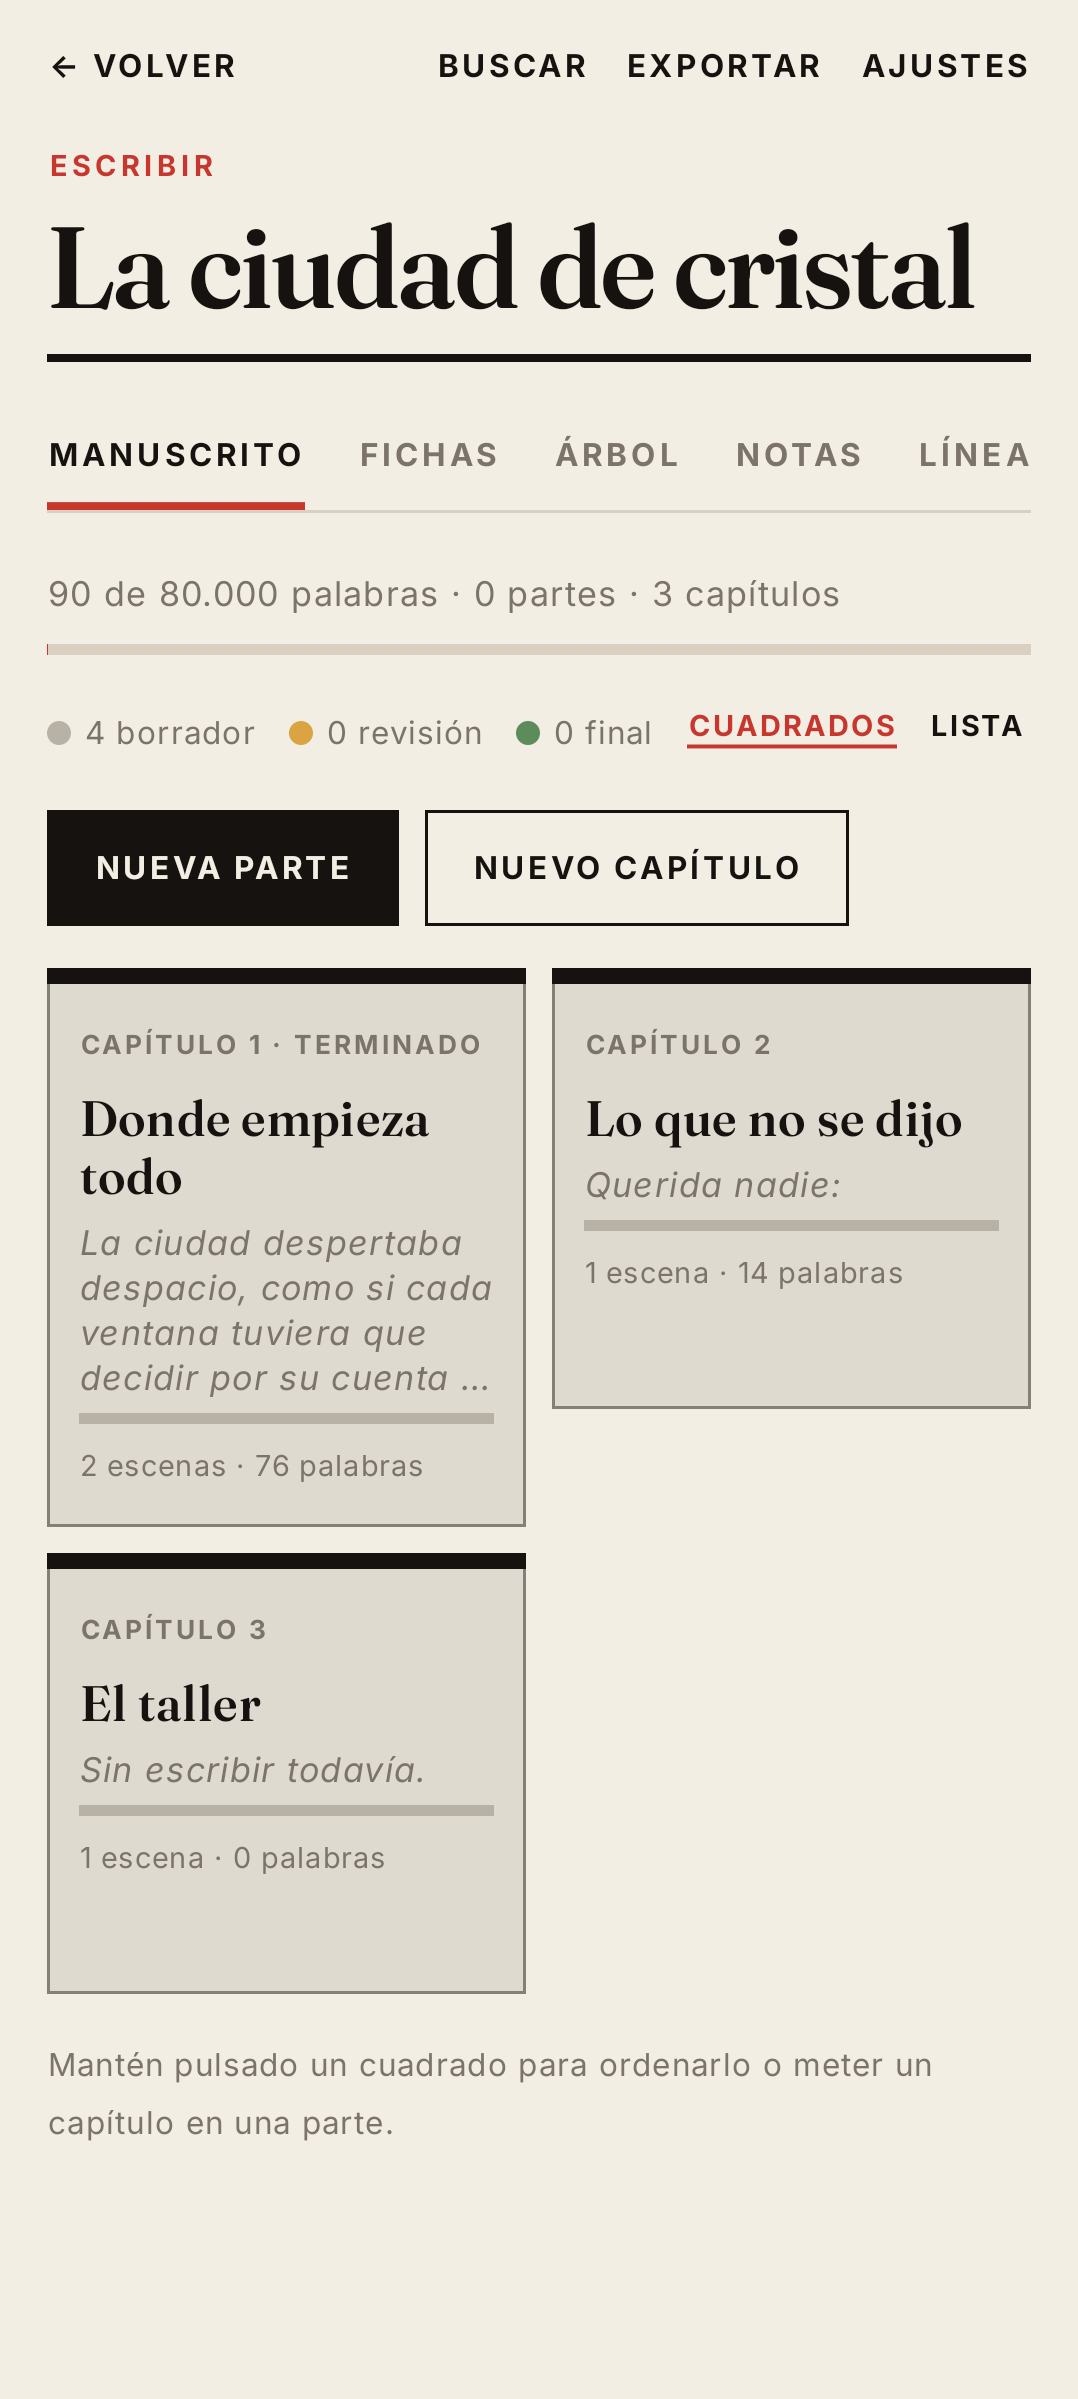
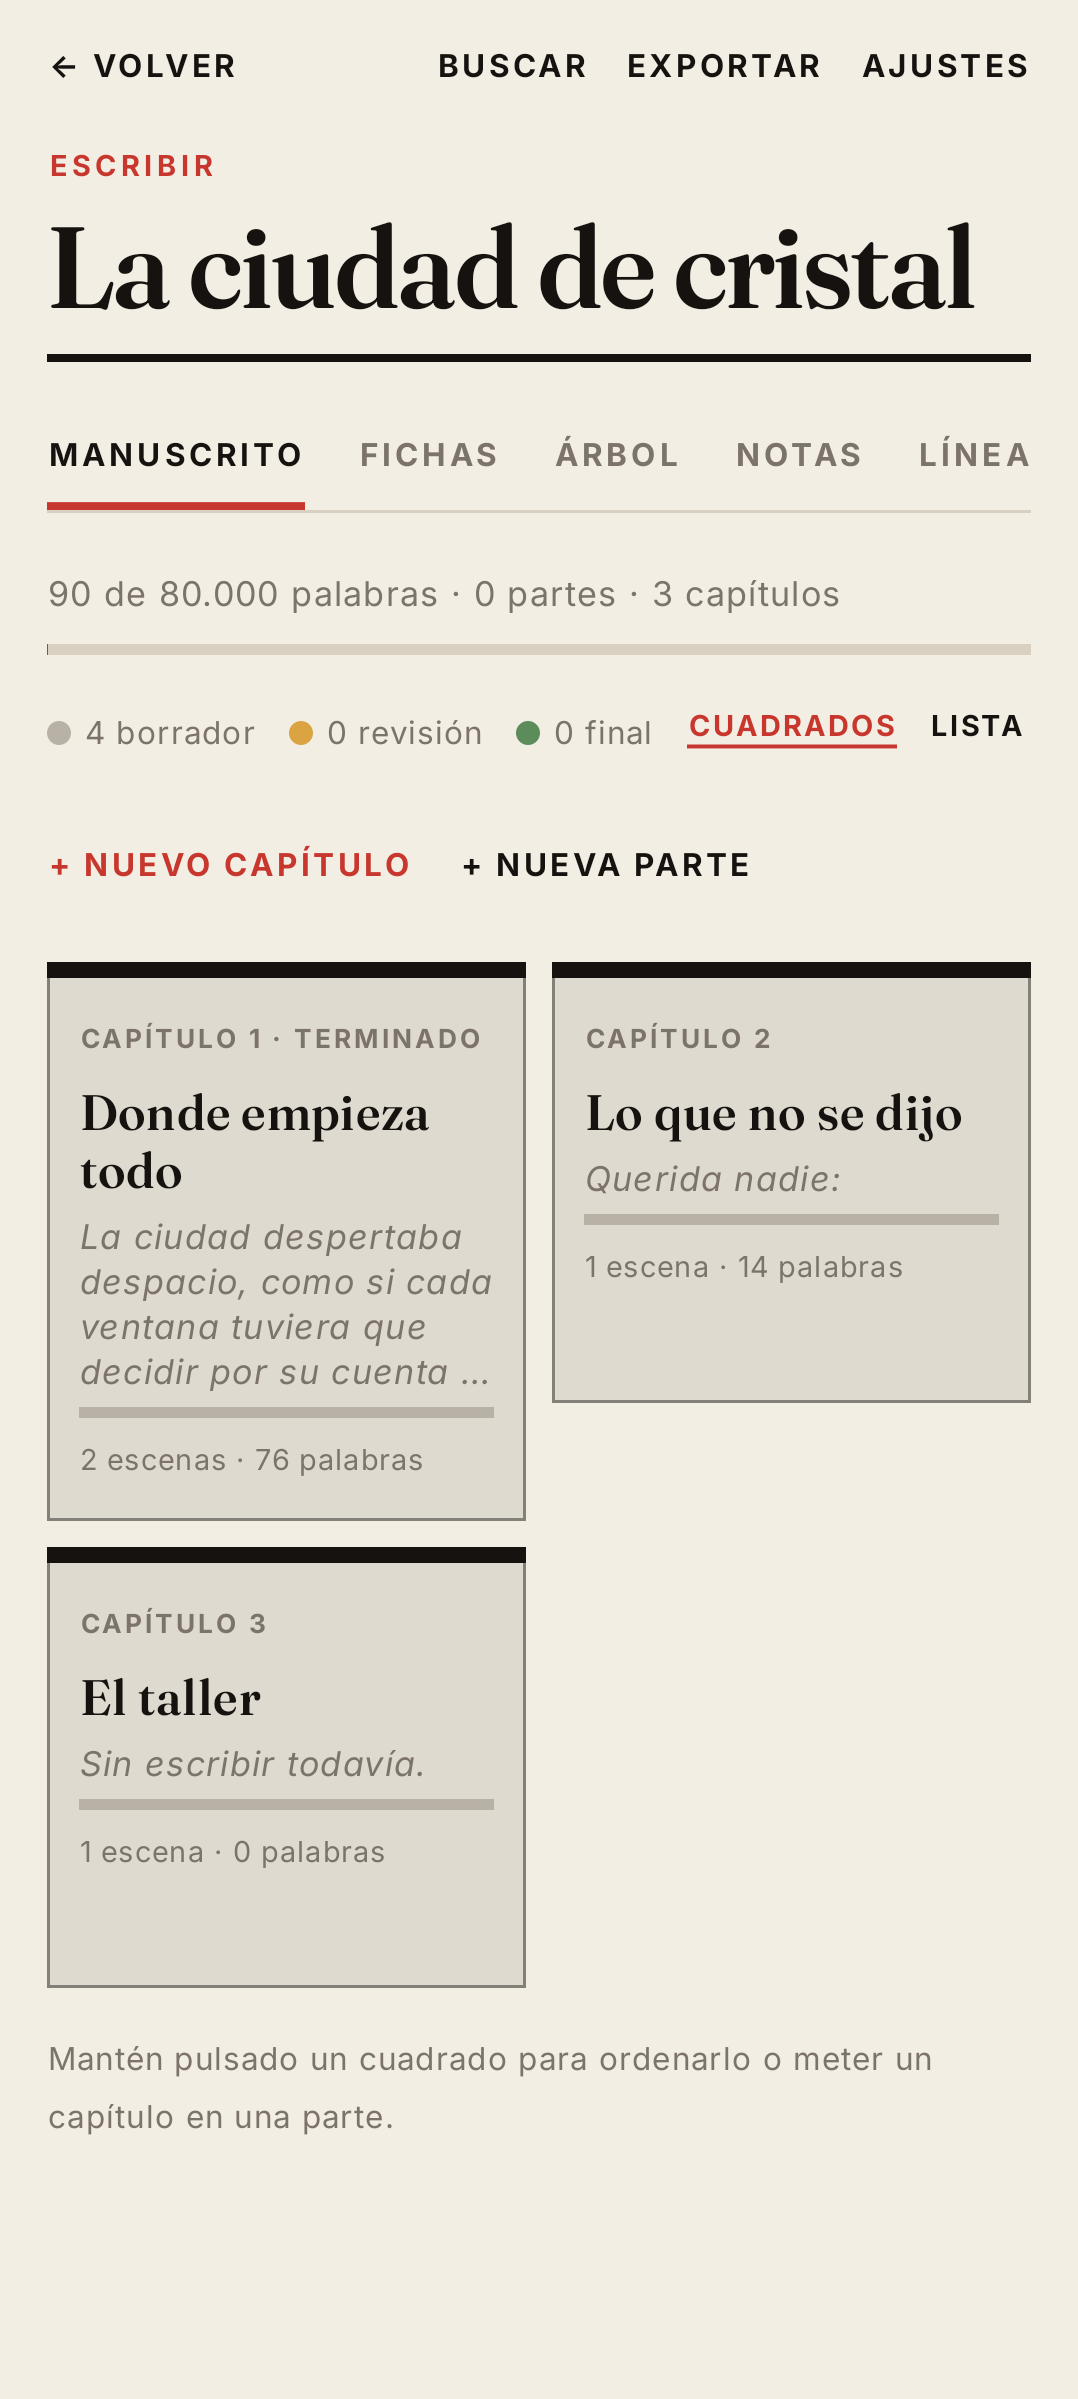
Cobalto 0.2.4: «+ Nuevo capítulo» y «+ Nueva parte» como enlaces de la revista
38 pruebas, 0 fallos.

Claude-Session: https://claude.ai/code/session_01Q4uywen3nuzUg5CTwJaCY5

diff --git a/app/src/main/java/com/gonzalo/cobalto/EscribirPartes.kt b/app/src/main/java/com/gonzalo/cobalto/EscribirPartes.kt
@@ -141,9 +141,9 @@ fun ManuscritoObra(e: Escritos, obra: Doc, ver: Int, abrirParte: (String) -> Uni
                 FiltroRevista("Cuadrados", !lista) { lista = false }
                 FiltroRevista("Lista", lista) { lista = true }
             }
-            Row(horizontalArrangement = Arrangement.spacedBy(10.dp)) {
-                BotonEscribir("Nueva parte") { parteNueva = true }
-                BotonEscribir("Nuevo capítulo", suave = true) { capNuevo = true }
+            Row(horizontalArrangement = Arrangement.spacedBy(18.dp)) {
+                EnlaceRevista("+ Nuevo capítulo", acento = true) { capNuevo = true }
+                EnlaceRevista("+ Nueva parte") { parteNueva = true }
             }
             val ctx = androidx.compose.ui.platform.LocalContext.current
             val terminados = remember(ver, pid) { Hermanas.capitulosTerminados(e, pid) }

diff --git a/app/src/main/java/com/gonzalo/cobalto/PantEstilo.kt b/app/src/main/java/com/gonzalo/cobalto/PantEstilo.kt
@@ -31,7 +31,7 @@ import kotlinx.coroutines.Dispatchers
 import kotlinx.coroutines.launch
 import kotlinx.coroutines.withContext
 
-const val VERSION = "0.2.3"
+const val VERSION = "0.2.4"
 
 /** «Ajustes»: Apariencia (como la de Atrio), cuenta de Atrio y pareja, actualizaciones, escritura y copias. */
 @OptIn(ExperimentalLayoutApi::class)

diff --git a/README.md b/README.md
@@ -10,6 +10,10 @@ versiones, comparar y mezclar, exportar (texto, Markdown, Word, PDF) e importar,
 Sin migración: usa los mismos documentos que Atrio y Atrio del PC (`/users/<uid>/escritos`), con el formato de `docs/escribir.md` de Atrio.
 Lo que escribas en el PC aparece aquí al momento, y al revés.
 
+## 0.2.4
+
+- En el manuscrito, «+ Nuevo capítulo» y «+ Nueva parte» son enlaces de la revista (como «+ Añadir» en Hiedra y Marfil), no botones.
+
 ## 0.2.3: la portada como la de sus hermanas
 
 - Arriba, «Buscar» y «+ Nueva» como en Hiedra y Marfil (antes solo «+ Nueva obra»); «Buscar» abre las secciones con el buscador abierto.
